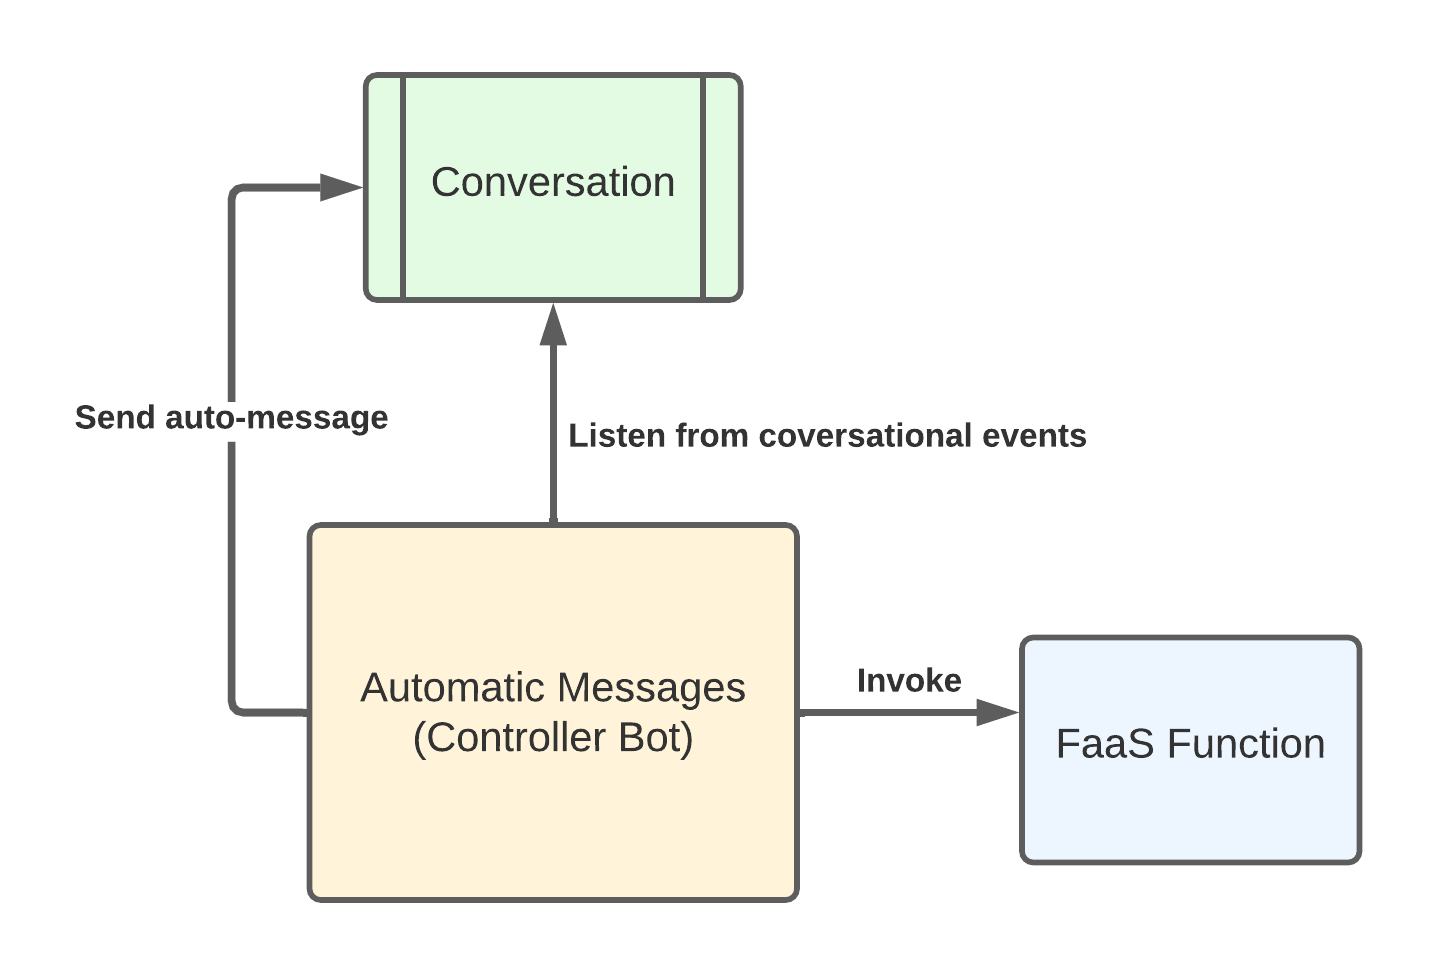
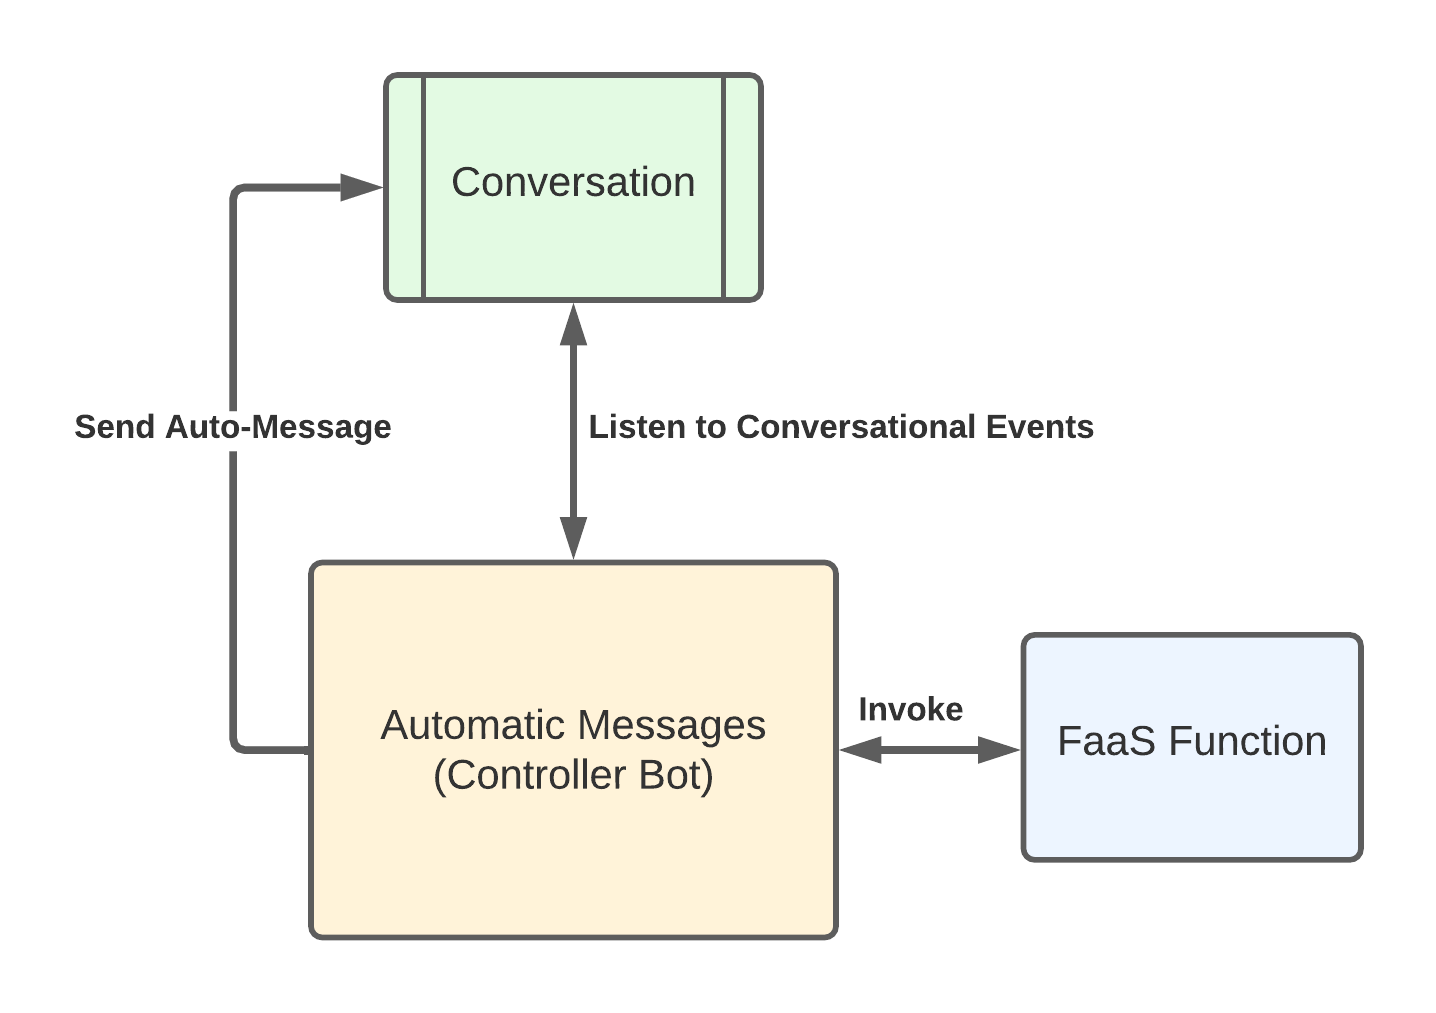
some refactor

diff --git a/pages/Documents/DeveloperTools/LivePersonFunctions/EventSources/post-conversation-survey.md b/pages/Documents/DeveloperTools/LivePersonFunctions/EventSources/post-conversation-survey.md
@@ -9,43 +9,49 @@ permalink: liveperson-functions-event-sources-post-conversation-survey.html
 indicator: both
 ---
 
-A post-conversation survey bot is a bot that is triggered at the end of a conversation with an agent or custom bot. You can use it to obtain feedback from the consumer on the consumer's experience with your brand. A survey bot is a great way to measure agent/bot and skill performance and to identify opportunities to improve on your quality targets.
+A post-conversation survey flow is triggered at the end of a conversation with an agent or custom bot. You can use it to obtain feedback from the consumer on the consumer's experience with your brand. A survey bot is a great way to measure agent/bot and skill performance and to identify opportunities to improve on your quality targets.
 
-Survey bots can be integrated with Functions.  A `lambada`can be invoke when the Survey start (at the end of the conversation) and when teh survey ends. In comparison to the [chat post survey](function-as-a-service-use-cases-post-chat-survey-transcripts.html) this integration will not send any automated emails.
+Survey bots can be integrated with Functions.  A `lambada` can be invoke when the Survey start (at the end of the conversation) and when teh survey ends. In comparison to the [chat post survey](function-as-a-service-use-cases-post-chat-survey-transcripts.html) this integration will not send any automated emails.
 
 {: .important}
-Post conversation survey bot only are available for **Messaging** , not for chat.
+Post Conversation Survey Bot is only available for **Messaging**, not for chat.
 
-<img src="img/faas-post-conversation-survey-flow.png" alt="FaaS Automatic Messages Flow" style="width:70%;"/>
+<img src="img/faas-survey-bot-flow.png" alt="FaaS Automatic Messages Flow" style="width:70%;"/>
 
 This is the Post Conversation Survey flow with Functions integration:
 
-1. Survey Bot listens at conversation end events.
+1. Survey Bot listens to conversation end events.
 2. If certain conditions occur, Survey bot will send the survey first question to the conversation:
-3. If there is a Function deployed associated to that survey start event -->  The function will be invoked.
-4. Survey will listen for survey resposeses and send more question
-5. When the Survey ends --> Survey Bot will invoke the function on theat vetns
+    1. If there is a Function deployed on *Messaging Survey Started* event -->  The function will be invoked.
+    2. Survey will listen for survey responses and send more question.
+3. When the Survey ends on *Messaging Survey Ended* event --> Survey Bot will invoke the function.
 
 ### Configuration
 
+Survey Bot can be configured under  [Conversation Builder Survey Bots](conversation-builder-bots-post-conversation-survey-bots.html).
+
+{: .important}
+Please, follow this guide on how to configure a [Post Conversation Survey Bot](conversation-builder-bots-post-conversation-survey-bots.html) before start. If you have already a survey bot configured make sure you have Functions enabled for your account.
+
 #### Step 1 - Create function
 
-Create a new function using one of the messaging survey templates.
+Create a new function using one of the messaging survey templates. There are are the following events:
 
-Currently, only one function per template type can be created. If there are multiple types of functionality needed that stem from the same event invocation, these should be coded into the same `lambda`.
+* *Messaging Survey Started.*
+* *Messaging Survey Ended.*
+
+Currently, only one function per event type can be created. If there are multiple types of functionality needed that stem from the same event invocation, these should be coded into the same `lambda`.
+
+{: .important}
+The Survey Bot won't process any callback payload during the invocation. //TODO: needs to clarify
 
 #### Step 2 - Edit the Function
 
-Adjust the code in the template according to your needs by modifying the function. On the right side you can see an example of the payload (in the sidebar, which you might need to open).
-
-As mentioned above, the function can return a series of commands back to the invoker. In the template code you can see the current available commands.
-
-In the event of the function not being threaded by the calling system, the function can simply return `ok` within the callback.
+Adjust the code in the template according to your needs by modifying the function. On the right side you can see an example of the payload (in the sidebar, which you might need to open). In the event of the function not being threaded by the calling system, the function can simply return `ok` within the callback.
 
 #### Step 4 - Deploy the function
 
-Just like any other function, this function must be deployed before it can be used. [Please see this document](function-as-a-service-deploying-functions.html) for more information on how to deploy your function. At this point, you can also test your function.
-
+Just like any other function, this function must be deployed before it can be used. [Please see this document](liveperson-functions-getting-started-your-first-function.html#deploy) for more information on how to deploy your function. At this point, you can also test your function.
 
 ### Payload details
 

diff --git a/pages/Documents/DeveloperTools/LivePersonFunctions/EventSources/overview.md b/pages/Documents/DeveloperTools/LivePersonFunctions/EventSources/overview.md
@@ -41,8 +41,8 @@ Currently the following event sources are supported:
 
 |Event Name|Event Description|Event Source|Lambda Limit| Supports Skills|
 |--- |--- |--- |--- |---
-|Messaging Survey Ended|Triggered when a messaging post survey ended.|Survey Bot|1|✅|
 |Messaging Survey Started|Triggered when a messaging post survey started.|Survey Bot|1|✅|
+|Messaging Survey Ended|Triggered when a messaging post survey ended.|Survey Bot|1|✅|
 
 #### Conversational commands
 
